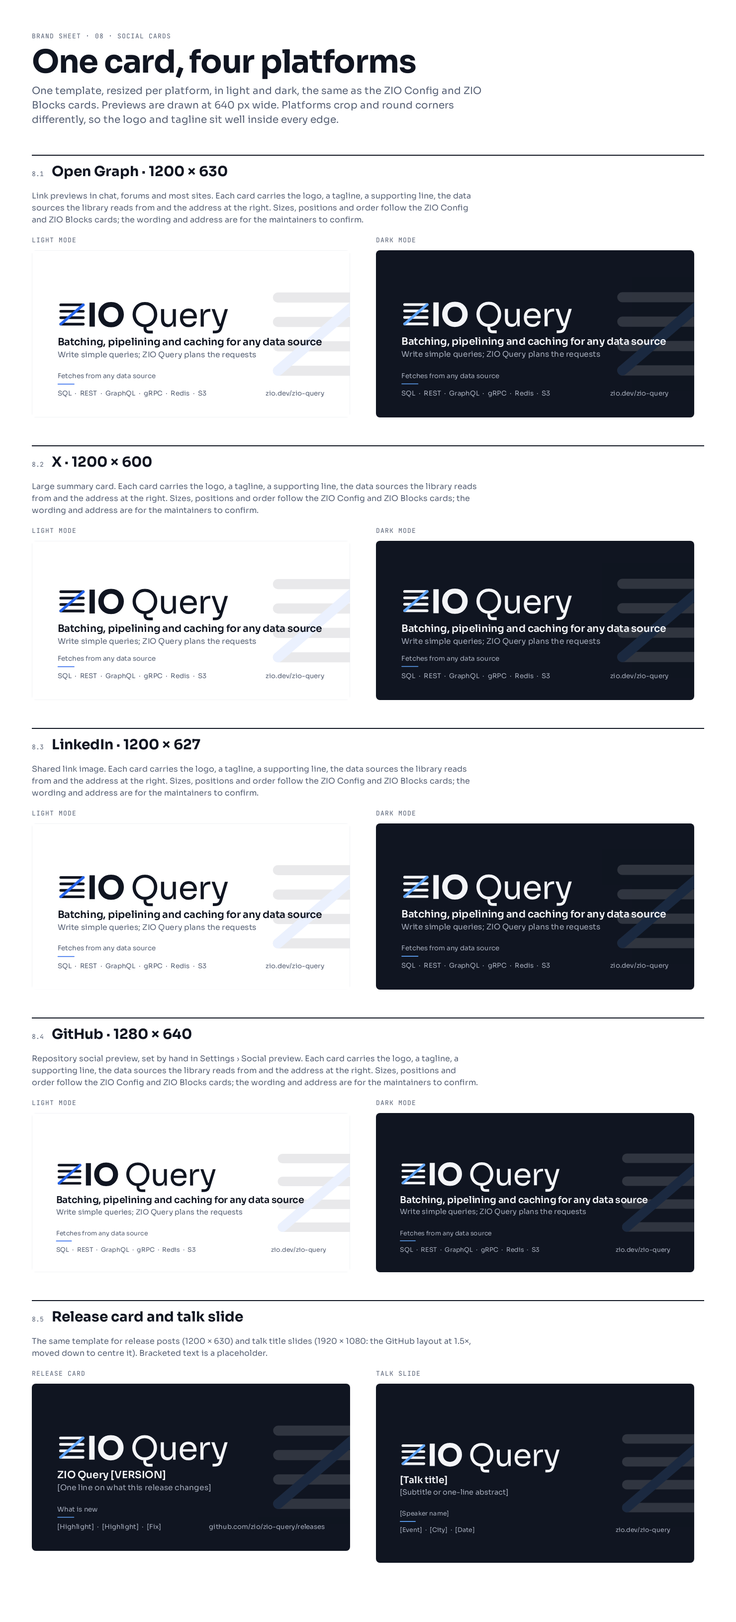
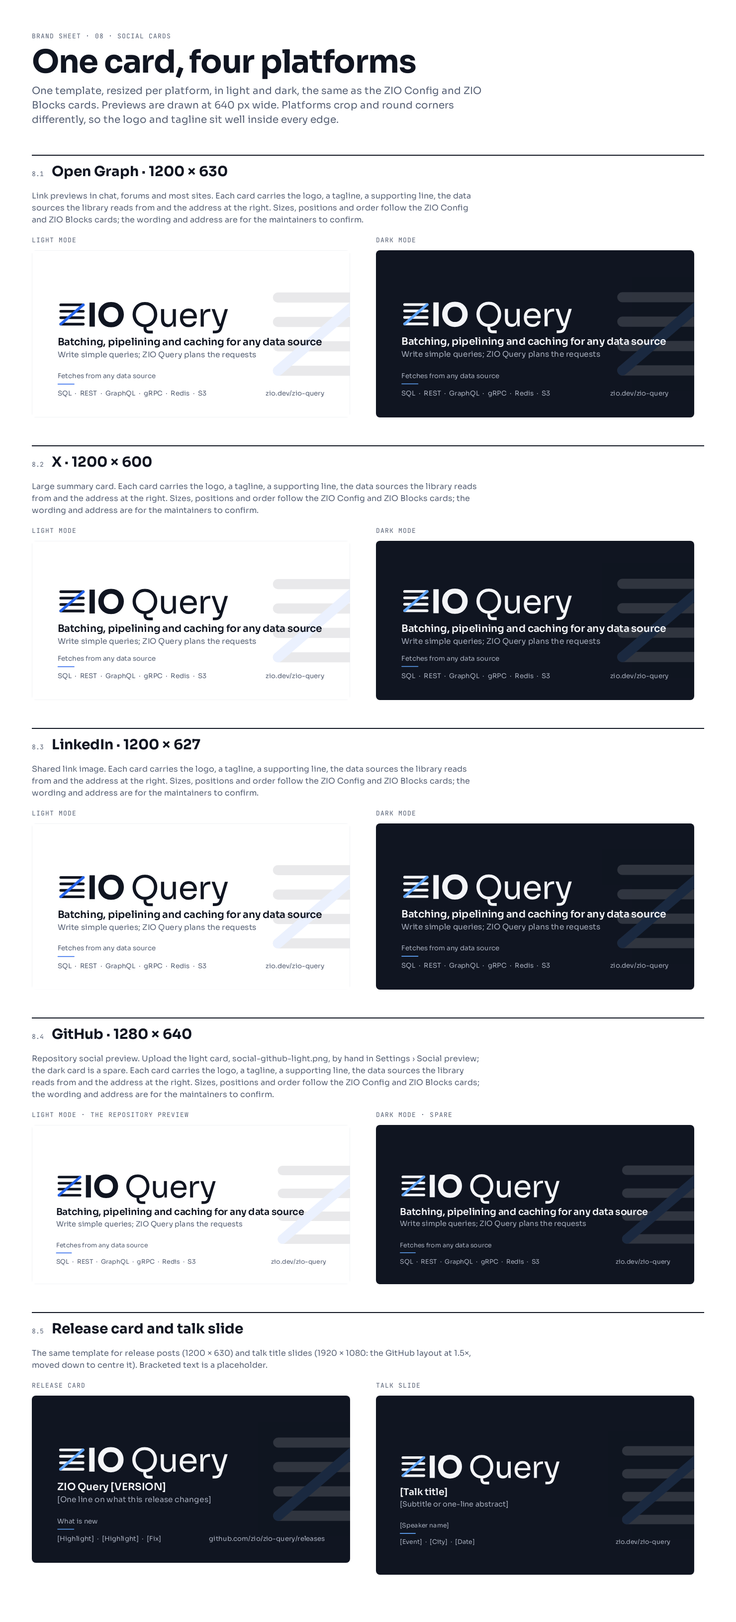
Use the light card as the GitHub social preview
The light card (social-github-light.png) is the one to upload in
Settings > Social preview; the dark card stays as a spare.

diff --git a/brand/sheet/Brand8Social.dc.html b/brand/sheet/Brand8Social.dc.html
@@ -30,7 +30,7 @@ body{margin:0}
 <div style="display: flex; flex-direction: column; gap: 20px"><div style="display: flex; align-items: baseline; gap: 16px; border-top: 2px solid #101521; padding-top: 14px"><div style="font-family: 'JetBrains Mono', monospace; font-size: 13px; color: #566074">8.1</div><div style="font-size: 28px; font-weight: 700">Open Graph · 1200 × 630</div></div><div style="font-size: 16px; color: #566074; line-height: 1.5; max-width: 900px">Link previews in chat, forums and most sites. Each card carries the logo, a tagline, a supporting line, the data sources the library reads from and the address at the right. Sizes, positions and order follow the ZIO Config and ZIO Blocks cards; the wording and address are for the maintainers to confirm.</div><div style="display: grid; grid-template-columns: repeat(2, minmax(0, 1fr)); gap: 32px"><div style="display: flex; flex-direction: column; gap: 12px"><div style="font-family: 'JetBrains Mono', monospace; font-size: 13px; color: #566074; letter-spacing: 0.08em; text-transform: uppercase">Light mode</div><div style="width: 640px; height: 336px; overflow: hidden; position: relative; flex: none; border-radius: 8px"><div style="width: 1200px; height: 630px; transform: scale(0.5333); transform-origin: 0 0"><div style="width: 1200px; height: 630px; border: 1px solid #E3E6EC; box-sizing: border-box; position: relative; overflow: hidden; color: #101521; background: #FFFFFF"><div style="position: absolute; right: -120.0px; top: 85.0px; opacity: 0.09"><svg width="460.0" height="460.0" viewBox="0 0 120 120" aria-hidden="true" style="--ln:#101521; --st:#2563EB"><use href="#qm" width="120" height="120"></use></svg></div><div style="position: absolute; left: 96.0px; top: 189.07px"><svg width="647.3" height="128.59" viewBox="-3.18 20.85 524.78 104.25" role="img" aria-label="ZIO Query" style="display: block; --ink:#101521; --ln:#101521; --st:#2563EB"><use href="#ql" x="-3.18" y="20.85" width="524.78" height="104.25"></use></svg></div><div style="position: absolute; left: 96.0px; top: 325.0px; font-size: 38.0px; line-height: 1; font-weight: 600; color: #101521; white-space: nowrap; letter-spacing: -0.01em">Batching, pipelining and caching for any data source</div><div style="position: absolute; left: 96.0px; top: 378.0px; font-size: 29.0px; line-height: 1; font-weight: 400; color: #566074; white-space: nowrap">Write simple queries; ZIO Query plans the requests</div><div style="position: absolute; left: 96.0px; top: 460.0px; font-size: 25.0px; line-height: 1; font-weight: 400; color: #566074; white-space: nowrap">Fetches from any data source</div><div style="position: absolute; left: 96.0px; top: 502.0px; width: 64.0px; height: 3.0px; border-radius: 2px; background: #2563EB"></div><div style="position: absolute; left: 96.0px; top: 526.0px; font-size: 25.0px; line-height: 1; font-weight: 400; color: #566074; white-space: nowrap">SQL &#160;·&#160; REST &#160;·&#160; GraphQL &#160;·&#160; gRPC &#160;·&#160; Redis &#160;·&#160; S3</div><div style="position: absolute; right: 96.0px; top: 526.0px; font-size: 25.0px; line-height: 1; font-weight: 400; color: #566074; white-space: nowrap">zio.dev/zio-query</div></div></div></div></div><div style="display: flex; flex-direction: column; gap: 12px"><div style="font-family: 'JetBrains Mono', monospace; font-size: 13px; color: #566074; letter-spacing: 0.08em; text-transform: uppercase">Dark mode</div><div style="width: 640px; height: 336px; overflow: hidden; position: relative; flex: none; border-radius: 8px"><div style="width: 1200px; height: 630px; transform: scale(0.5333); transform-origin: 0 0"><div style="width: 1200px; height: 630px; box-sizing: border-box; position: relative; overflow: hidden; color: #F4F5F8; background: #101521"><div style="position: absolute; right: -120.0px; top: 85.0px; opacity: 0.14"><svg width="460.0" height="460.0" viewBox="0 0 120 120" aria-hidden="true" style="--ln:#F4F5F8; --st:#60A5FA"><use href="#qm" width="120" height="120"></use></svg></div><div style="position: absolute; left: 96.0px; top: 189.07px"><svg width="647.3" height="128.59" viewBox="-3.18 20.85 524.78 104.25" role="img" aria-label="ZIO Query" style="display: block; --ink:#F4F5F8; --ln:#F4F5F8; --st:#60A5FA"><use href="#ql" x="-3.18" y="20.85" width="524.78" height="104.25"></use></svg></div><div style="position: absolute; left: 96.0px; top: 325.0px; font-size: 38.0px; line-height: 1; font-weight: 600; color: #F4F5F8; white-space: nowrap; letter-spacing: -0.01em">Batching, pipelining and caching for any data source</div><div style="position: absolute; left: 96.0px; top: 378.0px; font-size: 29.0px; line-height: 1; font-weight: 400; color: #A7AEBD; white-space: nowrap">Write simple queries; ZIO Query plans the requests</div><div style="position: absolute; left: 96.0px; top: 460.0px; font-size: 25.0px; line-height: 1; font-weight: 400; color: #A7AEBD; white-space: nowrap">Fetches from any data source</div><div style="position: absolute; left: 96.0px; top: 502.0px; width: 64.0px; height: 3.0px; border-radius: 2px; background: #60A5FA"></div><div style="position: absolute; left: 96.0px; top: 526.0px; font-size: 25.0px; line-height: 1; font-weight: 400; color: #A7AEBD; white-space: nowrap">SQL &#160;·&#160; REST &#160;·&#160; GraphQL &#160;·&#160; gRPC &#160;·&#160; Redis &#160;·&#160; S3</div><div style="position: absolute; right: 96.0px; top: 526.0px; font-size: 25.0px; line-height: 1; font-weight: 400; color: #A7AEBD; white-space: nowrap">zio.dev/zio-query</div></div></div></div></div></div></div>
 <div style="display: flex; flex-direction: column; gap: 20px"><div style="display: flex; align-items: baseline; gap: 16px; border-top: 2px solid #101521; padding-top: 14px"><div style="font-family: 'JetBrains Mono', monospace; font-size: 13px; color: #566074">8.2</div><div style="font-size: 28px; font-weight: 700">X · 1200 × 600</div></div><div style="font-size: 16px; color: #566074; line-height: 1.5; max-width: 900px">Large summary card. Each card carries the logo, a tagline, a supporting line, the data sources the library reads from and the address at the right. Sizes, positions and order follow the ZIO Config and ZIO Blocks cards; the wording and address are for the maintainers to confirm.</div><div style="display: grid; grid-template-columns: repeat(2, minmax(0, 1fr)); gap: 32px"><div style="display: flex; flex-direction: column; gap: 12px"><div style="font-family: 'JetBrains Mono', monospace; font-size: 13px; color: #566074; letter-spacing: 0.08em; text-transform: uppercase">Light mode</div><div style="width: 640px; height: 320px; overflow: hidden; position: relative; flex: none; border-radius: 8px"><div style="width: 1200px; height: 600px; transform: scale(0.5333); transform-origin: 0 0"><div style="width: 1200px; height: 600px; border: 1px solid #E3E6EC; box-sizing: border-box; position: relative; overflow: hidden; color: #101521; background: #FFFFFF"><div style="position: absolute; right: -120.0px; top: 70.0px; opacity: 0.09"><svg width="460.0" height="460.0" viewBox="0 0 120 120" aria-hidden="true" style="--ln:#101521; --st:#2563EB"><use href="#qm" width="120" height="120"></use></svg></div><div style="position: absolute; left: 96.0px; top: 175.07px"><svg width="647.3" height="128.59" viewBox="-3.18 20.85 524.78 104.25" role="img" aria-label="ZIO Query" style="display: block; --ink:#101521; --ln:#101521; --st:#2563EB"><use href="#ql" x="-3.18" y="20.85" width="524.78" height="104.25"></use></svg></div><div style="position: absolute; left: 96.0px; top: 311.0px; font-size: 38.0px; line-height: 1; font-weight: 600; color: #101521; white-space: nowrap; letter-spacing: -0.01em">Batching, pipelining and caching for any data source</div><div style="position: absolute; left: 96.0px; top: 364.0px; font-size: 29.0px; line-height: 1; font-weight: 400; color: #566074; white-space: nowrap">Write simple queries; ZIO Query plans the requests</div><div style="position: absolute; left: 96.0px; top: 430.0px; font-size: 25.0px; line-height: 1; font-weight: 400; color: #566074; white-space: nowrap">Fetches from any data source</div><div style="position: absolute; left: 96.0px; top: 472.0px; width: 64.0px; height: 3.0px; border-radius: 2px; background: #2563EB"></div><div style="position: absolute; left: 96.0px; top: 496.0px; font-size: 25.0px; line-height: 1; font-weight: 400; color: #566074; white-space: nowrap">SQL &#160;·&#160; REST &#160;·&#160; GraphQL &#160;·&#160; gRPC &#160;·&#160; Redis &#160;·&#160; S3</div><div style="position: absolute; right: 96.0px; top: 496.0px; font-size: 25.0px; line-height: 1; font-weight: 400; color: #566074; white-space: nowrap">zio.dev/zio-query</div></div></div></div></div><div style="display: flex; flex-direction: column; gap: 12px"><div style="font-family: 'JetBrains Mono', monospace; font-size: 13px; color: #566074; letter-spacing: 0.08em; text-transform: uppercase">Dark mode</div><div style="width: 640px; height: 320px; overflow: hidden; position: relative; flex: none; border-radius: 8px"><div style="width: 1200px; height: 600px; transform: scale(0.5333); transform-origin: 0 0"><div style="width: 1200px; height: 600px; box-sizing: border-box; position: relative; overflow: hidden; color: #F4F5F8; background: #101521"><div style="position: absolute; right: -120.0px; top: 70.0px; opacity: 0.14"><svg width="460.0" height="460.0" viewBox="0 0 120 120" aria-hidden="true" style="--ln:#F4F5F8; --st:#60A5FA"><use href="#qm" width="120" height="120"></use></svg></div><div style="position: absolute; left: 96.0px; top: 175.07px"><svg width="647.3" height="128.59" viewBox="-3.18 20.85 524.78 104.25" role="img" aria-label="ZIO Query" style="display: block; --ink:#F4F5F8; --ln:#F4F5F8; --st:#60A5FA"><use href="#ql" x="-3.18" y="20.85" width="524.78" height="104.25"></use></svg></div><div style="position: absolute; left: 96.0px; top: 311.0px; font-size: 38.0px; line-height: 1; font-weight: 600; color: #F4F5F8; white-space: nowrap; letter-spacing: -0.01em">Batching, pipelining and caching for any data source</div><div style="position: absolute; left: 96.0px; top: 364.0px; font-size: 29.0px; line-height: 1; font-weight: 400; color: #A7AEBD; white-space: nowrap">Write simple queries; ZIO Query plans the requests</div><div style="position: absolute; left: 96.0px; top: 430.0px; font-size: 25.0px; line-height: 1; font-weight: 400; color: #A7AEBD; white-space: nowrap">Fetches from any data source</div><div style="position: absolute; left: 96.0px; top: 472.0px; width: 64.0px; height: 3.0px; border-radius: 2px; background: #60A5FA"></div><div style="position: absolute; left: 96.0px; top: 496.0px; font-size: 25.0px; line-height: 1; font-weight: 400; color: #A7AEBD; white-space: nowrap">SQL &#160;·&#160; REST &#160;·&#160; GraphQL &#160;·&#160; gRPC &#160;·&#160; Redis &#160;·&#160; S3</div><div style="position: absolute; right: 96.0px; top: 496.0px; font-size: 25.0px; line-height: 1; font-weight: 400; color: #A7AEBD; white-space: nowrap">zio.dev/zio-query</div></div></div></div></div></div></div>
 <div style="display: flex; flex-direction: column; gap: 20px"><div style="display: flex; align-items: baseline; gap: 16px; border-top: 2px solid #101521; padding-top: 14px"><div style="font-family: 'JetBrains Mono', monospace; font-size: 13px; color: #566074">8.3</div><div style="font-size: 28px; font-weight: 700">LinkedIn · 1200 × 627</div></div><div style="font-size: 16px; color: #566074; line-height: 1.5; max-width: 900px">Shared link image. Each card carries the logo, a tagline, a supporting line, the data sources the library reads from and the address at the right. Sizes, positions and order follow the ZIO Config and ZIO Blocks cards; the wording and address are for the maintainers to confirm.</div><div style="display: grid; grid-template-columns: repeat(2, minmax(0, 1fr)); gap: 32px"><div style="display: flex; flex-direction: column; gap: 12px"><div style="font-family: 'JetBrains Mono', monospace; font-size: 13px; color: #566074; letter-spacing: 0.08em; text-transform: uppercase">Light mode</div><div style="width: 640px; height: 334px; overflow: hidden; position: relative; flex: none; border-radius: 8px"><div style="width: 1200px; height: 627px; transform: scale(0.5333); transform-origin: 0 0"><div style="width: 1200px; height: 627px; border: 1px solid #E3E6EC; box-sizing: border-box; position: relative; overflow: hidden; color: #101521; background: #FFFFFF"><div style="position: absolute; right: -120.0px; top: 83.0px; opacity: 0.09"><svg width="460.0" height="460.0" viewBox="0 0 120 120" aria-hidden="true" style="--ln:#101521; --st:#2563EB"><use href="#qm" width="120" height="120"></use></svg></div><div style="position: absolute; left: 96.0px; top: 187.07px"><svg width="647.3" height="128.59" viewBox="-3.18 20.85 524.78 104.25" role="img" aria-label="ZIO Query" style="display: block; --ink:#101521; --ln:#101521; --st:#2563EB"><use href="#ql" x="-3.18" y="20.85" width="524.78" height="104.25"></use></svg></div><div style="position: absolute; left: 96.0px; top: 323.0px; font-size: 38.0px; line-height: 1; font-weight: 600; color: #101521; white-space: nowrap; letter-spacing: -0.01em">Batching, pipelining and caching for any data source</div><div style="position: absolute; left: 96.0px; top: 376.0px; font-size: 29.0px; line-height: 1; font-weight: 400; color: #566074; white-space: nowrap">Write simple queries; ZIO Query plans the requests</div><div style="position: absolute; left: 96.0px; top: 457.0px; font-size: 25.0px; line-height: 1; font-weight: 400; color: #566074; white-space: nowrap">Fetches from any data source</div><div style="position: absolute; left: 96.0px; top: 499.0px; width: 64.0px; height: 3.0px; border-radius: 2px; background: #2563EB"></div><div style="position: absolute; left: 96.0px; top: 523.0px; font-size: 25.0px; line-height: 1; font-weight: 400; color: #566074; white-space: nowrap">SQL &#160;·&#160; REST &#160;·&#160; GraphQL &#160;·&#160; gRPC &#160;·&#160; Redis &#160;·&#160; S3</div><div style="position: absolute; right: 96.0px; top: 523.0px; font-size: 25.0px; line-height: 1; font-weight: 400; color: #566074; white-space: nowrap">zio.dev/zio-query</div></div></div></div></div><div style="display: flex; flex-direction: column; gap: 12px"><div style="font-family: 'JetBrains Mono', monospace; font-size: 13px; color: #566074; letter-spacing: 0.08em; text-transform: uppercase">Dark mode</div><div style="width: 640px; height: 334px; overflow: hidden; position: relative; flex: none; border-radius: 8px"><div style="width: 1200px; height: 627px; transform: scale(0.5333); transform-origin: 0 0"><div style="width: 1200px; height: 627px; box-sizing: border-box; position: relative; overflow: hidden; color: #F4F5F8; background: #101521"><div style="position: absolute; right: -120.0px; top: 83.0px; opacity: 0.14"><svg width="460.0" height="460.0" viewBox="0 0 120 120" aria-hidden="true" style="--ln:#F4F5F8; --st:#60A5FA"><use href="#qm" width="120" height="120"></use></svg></div><div style="position: absolute; left: 96.0px; top: 187.07px"><svg width="647.3" height="128.59" viewBox="-3.18 20.85 524.78 104.25" role="img" aria-label="ZIO Query" style="display: block; --ink:#F4F5F8; --ln:#F4F5F8; --st:#60A5FA"><use href="#ql" x="-3.18" y="20.85" width="524.78" height="104.25"></use></svg></div><div style="position: absolute; left: 96.0px; top: 323.0px; font-size: 38.0px; line-height: 1; font-weight: 600; color: #F4F5F8; white-space: nowrap; letter-spacing: -0.01em">Batching, pipelining and caching for any data source</div><div style="position: absolute; left: 96.0px; top: 376.0px; font-size: 29.0px; line-height: 1; font-weight: 400; color: #A7AEBD; white-space: nowrap">Write simple queries; ZIO Query plans the requests</div><div style="position: absolute; left: 96.0px; top: 457.0px; font-size: 25.0px; line-height: 1; font-weight: 400; color: #A7AEBD; white-space: nowrap">Fetches from any data source</div><div style="position: absolute; left: 96.0px; top: 499.0px; width: 64.0px; height: 3.0px; border-radius: 2px; background: #60A5FA"></div><div style="position: absolute; left: 96.0px; top: 523.0px; font-size: 25.0px; line-height: 1; font-weight: 400; color: #A7AEBD; white-space: nowrap">SQL &#160;·&#160; REST &#160;·&#160; GraphQL &#160;·&#160; gRPC &#160;·&#160; Redis &#160;·&#160; S3</div><div style="position: absolute; right: 96.0px; top: 523.0px; font-size: 25.0px; line-height: 1; font-weight: 400; color: #A7AEBD; white-space: nowrap">zio.dev/zio-query</div></div></div></div></div></div></div>
-<div style="display: flex; flex-direction: column; gap: 20px"><div style="display: flex; align-items: baseline; gap: 16px; border-top: 2px solid #101521; padding-top: 14px"><div style="font-family: 'JetBrains Mono', monospace; font-size: 13px; color: #566074">8.4</div><div style="font-size: 28px; font-weight: 700">GitHub · 1280 × 640</div></div><div style="font-size: 16px; color: #566074; line-height: 1.5; max-width: 900px">Repository social preview, set by hand in Settings › Social preview. Each card carries the logo, a tagline, a supporting line, the data sources the library reads from and the address at the right. Sizes, positions and order follow the ZIO Config and ZIO Blocks cards; the wording and address are for the maintainers to confirm.</div><div style="display: grid; grid-template-columns: repeat(2, minmax(0, 1fr)); gap: 32px"><div style="display: flex; flex-direction: column; gap: 12px"><div style="font-family: 'JetBrains Mono', monospace; font-size: 13px; color: #566074; letter-spacing: 0.08em; text-transform: uppercase">Light mode</div><div style="width: 640px; height: 320px; overflow: hidden; position: relative; flex: none; border-radius: 8px"><div style="width: 1280px; height: 640px; transform: scale(0.5000); transform-origin: 0 0"><div style="width: 1280px; height: 640px; border: 1px solid #E3E6EC; box-sizing: border-box; position: relative; overflow: hidden; color: #101521; background: #FFFFFF"><div style="position: absolute; right: -120.0px; top: 90.0px; opacity: 0.09"><svg width="460.0" height="460.0" viewBox="0 0 120 120" aria-hidden="true" style="--ln:#101521; --st:#2563EB"><use href="#qm" width="120" height="120"></use></svg></div><div style="position: absolute; left: 96.0px; top: 193.07px"><svg width="647.3" height="128.59" viewBox="-3.18 20.85 524.78 104.25" role="img" aria-label="ZIO Query" style="display: block; --ink:#101521; --ln:#101521; --st:#2563EB"><use href="#ql" x="-3.18" y="20.85" width="524.78" height="104.25"></use></svg></div><div style="position: absolute; left: 96.0px; top: 329.0px; font-size: 38.0px; line-height: 1; font-weight: 600; color: #101521; white-space: nowrap; letter-spacing: -0.01em">Batching, pipelining and caching for any data source</div><div style="position: absolute; left: 96.0px; top: 382.0px; font-size: 29.0px; line-height: 1; font-weight: 400; color: #566074; white-space: nowrap">Write simple queries; ZIO Query plans the requests</div><div style="position: absolute; left: 96.0px; top: 470.0px; font-size: 25.0px; line-height: 1; font-weight: 400; color: #566074; white-space: nowrap">Fetches from any data source</div><div style="position: absolute; left: 96.0px; top: 512.0px; width: 64.0px; height: 3.0px; border-radius: 2px; background: #2563EB"></div><div style="position: absolute; left: 96.0px; top: 536.0px; font-size: 25.0px; line-height: 1; font-weight: 400; color: #566074; white-space: nowrap">SQL &#160;·&#160; REST &#160;·&#160; GraphQL &#160;·&#160; gRPC &#160;·&#160; Redis &#160;·&#160; S3</div><div style="position: absolute; right: 96.0px; top: 536.0px; font-size: 25.0px; line-height: 1; font-weight: 400; color: #566074; white-space: nowrap">zio.dev/zio-query</div></div></div></div></div><div style="display: flex; flex-direction: column; gap: 12px"><div style="font-family: 'JetBrains Mono', monospace; font-size: 13px; color: #566074; letter-spacing: 0.08em; text-transform: uppercase">Dark mode</div><div style="width: 640px; height: 320px; overflow: hidden; position: relative; flex: none; border-radius: 8px"><div style="width: 1280px; height: 640px; transform: scale(0.5000); transform-origin: 0 0"><div style="width: 1280px; height: 640px; box-sizing: border-box; position: relative; overflow: hidden; color: #F4F5F8; background: #101521"><div style="position: absolute; right: -120.0px; top: 90.0px; opacity: 0.14"><svg width="460.0" height="460.0" viewBox="0 0 120 120" aria-hidden="true" style="--ln:#F4F5F8; --st:#60A5FA"><use href="#qm" width="120" height="120"></use></svg></div><div style="position: absolute; left: 96.0px; top: 193.07px"><svg width="647.3" height="128.59" viewBox="-3.18 20.85 524.78 104.25" role="img" aria-label="ZIO Query" style="display: block; --ink:#F4F5F8; --ln:#F4F5F8; --st:#60A5FA"><use href="#ql" x="-3.18" y="20.85" width="524.78" height="104.25"></use></svg></div><div style="position: absolute; left: 96.0px; top: 329.0px; font-size: 38.0px; line-height: 1; font-weight: 600; color: #F4F5F8; white-space: nowrap; letter-spacing: -0.01em">Batching, pipelining and caching for any data source</div><div style="position: absolute; left: 96.0px; top: 382.0px; font-size: 29.0px; line-height: 1; font-weight: 400; color: #A7AEBD; white-space: nowrap">Write simple queries; ZIO Query plans the requests</div><div style="position: absolute; left: 96.0px; top: 470.0px; font-size: 25.0px; line-height: 1; font-weight: 400; color: #A7AEBD; white-space: nowrap">Fetches from any data source</div><div style="position: absolute; left: 96.0px; top: 512.0px; width: 64.0px; height: 3.0px; border-radius: 2px; background: #60A5FA"></div><div style="position: absolute; left: 96.0px; top: 536.0px; font-size: 25.0px; line-height: 1; font-weight: 400; color: #A7AEBD; white-space: nowrap">SQL &#160;·&#160; REST &#160;·&#160; GraphQL &#160;·&#160; gRPC &#160;·&#160; Redis &#160;·&#160; S3</div><div style="position: absolute; right: 96.0px; top: 536.0px; font-size: 25.0px; line-height: 1; font-weight: 400; color: #A7AEBD; white-space: nowrap">zio.dev/zio-query</div></div></div></div></div></div></div>
+<div style="display: flex; flex-direction: column; gap: 20px"><div style="display: flex; align-items: baseline; gap: 16px; border-top: 2px solid #101521; padding-top: 14px"><div style="font-family: 'JetBrains Mono', monospace; font-size: 13px; color: #566074">8.4</div><div style="font-size: 28px; font-weight: 700">GitHub · 1280 × 640</div></div><div style="font-size: 16px; color: #566074; line-height: 1.5; max-width: 900px">Repository social preview. Upload the light card, social-github-light.png, by hand in Settings › Social preview; the dark card is a spare. Each card carries the logo, a tagline, a supporting line, the data sources the library reads from and the address at the right. Sizes, positions and order follow the ZIO Config and ZIO Blocks cards; the wording and address are for the maintainers to confirm.</div><div style="display: grid; grid-template-columns: repeat(2, minmax(0, 1fr)); gap: 32px"><div style="display: flex; flex-direction: column; gap: 12px"><div style="font-family: 'JetBrains Mono', monospace; font-size: 13px; color: #566074; letter-spacing: 0.08em; text-transform: uppercase">Light mode · the repository preview</div><div style="width: 640px; height: 320px; overflow: hidden; position: relative; flex: none; border-radius: 8px"><div style="width: 1280px; height: 640px; transform: scale(0.5000); transform-origin: 0 0"><div style="width: 1280px; height: 640px; border: 1px solid #E3E6EC; box-sizing: border-box; position: relative; overflow: hidden; color: #101521; background: #FFFFFF"><div style="position: absolute; right: -120.0px; top: 90.0px; opacity: 0.09"><svg width="460.0" height="460.0" viewBox="0 0 120 120" aria-hidden="true" style="--ln:#101521; --st:#2563EB"><use href="#qm" width="120" height="120"></use></svg></div><div style="position: absolute; left: 96.0px; top: 193.07px"><svg width="647.3" height="128.59" viewBox="-3.18 20.85 524.78 104.25" role="img" aria-label="ZIO Query" style="display: block; --ink:#101521; --ln:#101521; --st:#2563EB"><use href="#ql" x="-3.18" y="20.85" width="524.78" height="104.25"></use></svg></div><div style="position: absolute; left: 96.0px; top: 329.0px; font-size: 38.0px; line-height: 1; font-weight: 600; color: #101521; white-space: nowrap; letter-spacing: -0.01em">Batching, pipelining and caching for any data source</div><div style="position: absolute; left: 96.0px; top: 382.0px; font-size: 29.0px; line-height: 1; font-weight: 400; color: #566074; white-space: nowrap">Write simple queries; ZIO Query plans the requests</div><div style="position: absolute; left: 96.0px; top: 470.0px; font-size: 25.0px; line-height: 1; font-weight: 400; color: #566074; white-space: nowrap">Fetches from any data source</div><div style="position: absolute; left: 96.0px; top: 512.0px; width: 64.0px; height: 3.0px; border-radius: 2px; background: #2563EB"></div><div style="position: absolute; left: 96.0px; top: 536.0px; font-size: 25.0px; line-height: 1; font-weight: 400; color: #566074; white-space: nowrap">SQL &#160;·&#160; REST &#160;·&#160; GraphQL &#160;·&#160; gRPC &#160;·&#160; Redis &#160;·&#160; S3</div><div style="position: absolute; right: 96.0px; top: 536.0px; font-size: 25.0px; line-height: 1; font-weight: 400; color: #566074; white-space: nowrap">zio.dev/zio-query</div></div></div></div></div><div style="display: flex; flex-direction: column; gap: 12px"><div style="font-family: 'JetBrains Mono', monospace; font-size: 13px; color: #566074; letter-spacing: 0.08em; text-transform: uppercase">Dark mode · spare</div><div style="width: 640px; height: 320px; overflow: hidden; position: relative; flex: none; border-radius: 8px"><div style="width: 1280px; height: 640px; transform: scale(0.5000); transform-origin: 0 0"><div style="width: 1280px; height: 640px; box-sizing: border-box; position: relative; overflow: hidden; color: #F4F5F8; background: #101521"><div style="position: absolute; right: -120.0px; top: 90.0px; opacity: 0.14"><svg width="460.0" height="460.0" viewBox="0 0 120 120" aria-hidden="true" style="--ln:#F4F5F8; --st:#60A5FA"><use href="#qm" width="120" height="120"></use></svg></div><div style="position: absolute; left: 96.0px; top: 193.07px"><svg width="647.3" height="128.59" viewBox="-3.18 20.85 524.78 104.25" role="img" aria-label="ZIO Query" style="display: block; --ink:#F4F5F8; --ln:#F4F5F8; --st:#60A5FA"><use href="#ql" x="-3.18" y="20.85" width="524.78" height="104.25"></use></svg></div><div style="position: absolute; left: 96.0px; top: 329.0px; font-size: 38.0px; line-height: 1; font-weight: 600; color: #F4F5F8; white-space: nowrap; letter-spacing: -0.01em">Batching, pipelining and caching for any data source</div><div style="position: absolute; left: 96.0px; top: 382.0px; font-size: 29.0px; line-height: 1; font-weight: 400; color: #A7AEBD; white-space: nowrap">Write simple queries; ZIO Query plans the requests</div><div style="position: absolute; left: 96.0px; top: 470.0px; font-size: 25.0px; line-height: 1; font-weight: 400; color: #A7AEBD; white-space: nowrap">Fetches from any data source</div><div style="position: absolute; left: 96.0px; top: 512.0px; width: 64.0px; height: 3.0px; border-radius: 2px; background: #60A5FA"></div><div style="position: absolute; left: 96.0px; top: 536.0px; font-size: 25.0px; line-height: 1; font-weight: 400; color: #A7AEBD; white-space: nowrap">SQL &#160;·&#160; REST &#160;·&#160; GraphQL &#160;·&#160; gRPC &#160;·&#160; Redis &#160;·&#160; S3</div><div style="position: absolute; right: 96.0px; top: 536.0px; font-size: 25.0px; line-height: 1; font-weight: 400; color: #A7AEBD; white-space: nowrap">zio.dev/zio-query</div></div></div></div></div></div></div>
 <div style="display: flex; flex-direction: column; gap: 20px"><div style="display: flex; align-items: baseline; gap: 16px; border-top: 2px solid #101521; padding-top: 14px"><div style="font-family: 'JetBrains Mono', monospace; font-size: 13px; color: #566074">8.5</div><div style="font-size: 28px; font-weight: 700">Release card and talk slide</div></div><div style="font-size: 16px; color: #566074; line-height: 1.5; max-width: 900px">The same template for release posts (1200 × 630) and talk title slides (1920 × 1080: the GitHub layout at 1.5×, moved down to centre it). Bracketed text is a placeholder.</div><div style="display: grid; grid-template-columns: repeat(2, minmax(0, 1fr)); gap: 32px"><div style="display: flex; flex-direction: column; gap: 12px"><div style="font-family: 'JetBrains Mono', monospace; font-size: 13px; color: #566074; letter-spacing: 0.08em; text-transform: uppercase">Release card</div><div style="width: 640px; height: 336px; overflow: hidden; position: relative; flex: none; border-radius: 8px"><div style="width: 1200px; height: 630px; transform: scale(0.5333); transform-origin: 0 0"><div style="width: 1200px; height: 630px; box-sizing: border-box; position: relative; overflow: hidden; color: #F4F5F8; background: #101521"><div style="position: absolute; right: -120.0px; top: 85.0px; opacity: 0.14"><svg width="460.0" height="460.0" viewBox="0 0 120 120" aria-hidden="true" style="--ln:#F4F5F8; --st:#60A5FA"><use href="#qm" width="120" height="120"></use></svg></div><div style="position: absolute; left: 96.0px; top: 189.07px"><svg width="647.3" height="128.59" viewBox="-3.18 20.85 524.78 104.25" role="img" aria-label="ZIO Query" style="display: block; --ink:#F4F5F8; --ln:#F4F5F8; --st:#60A5FA"><use href="#ql" x="-3.18" y="20.85" width="524.78" height="104.25"></use></svg></div><div style="position: absolute; left: 96.0px; top: 325.0px; font-size: 38.0px; line-height: 1; font-weight: 600; color: #F4F5F8; white-space: nowrap; letter-spacing: -0.01em">ZIO Query [VERSION]</div><div style="position: absolute; left: 96.0px; top: 378.0px; font-size: 29.0px; line-height: 1; font-weight: 400; color: #A7AEBD; white-space: nowrap">[One line on what this release changes]</div><div style="position: absolute; left: 96.0px; top: 460.0px; font-size: 25.0px; line-height: 1; font-weight: 400; color: #A7AEBD; white-space: nowrap">What is new</div><div style="position: absolute; left: 96.0px; top: 502.0px; width: 64.0px; height: 3.0px; border-radius: 2px; background: #60A5FA"></div><div style="position: absolute; left: 96.0px; top: 526.0px; font-size: 25.0px; line-height: 1; font-weight: 400; color: #A7AEBD; white-space: nowrap">[Highlight] &#160;·&#160; [Highlight] &#160;·&#160; [Fix]</div><div style="position: absolute; right: 96.0px; top: 526.0px; font-size: 25.0px; line-height: 1; font-weight: 400; color: #A7AEBD; white-space: nowrap">github.com/zio/zio-query/releases</div></div></div></div></div><div style="display: flex; flex-direction: column; gap: 12px"><div style="font-family: 'JetBrains Mono', monospace; font-size: 13px; color: #566074; letter-spacing: 0.08em; text-transform: uppercase">Talk slide</div><div style="width: 640px; height: 360px; overflow: hidden; position: relative; flex: none; border-radius: 8px"><div style="width: 1920px; height: 1080px; transform: scale(0.3333); transform-origin: 0 0"><div style="width: 1920px; height: 1080px; box-sizing: border-box; position: relative; overflow: hidden; color: #F4F5F8; background: #101521"><div style="position: absolute; right: -180.0px; top: 195.0px; opacity: 0.14"><svg width="690.0" height="690.0" viewBox="0 0 120 120" aria-hidden="true" style="--ln:#F4F5F8; --st:#60A5FA"><use href="#qm" width="120" height="120"></use></svg></div><div style="position: absolute; left: 144.0px; top: 349.6px"><svg width="970.95" height="192.88" viewBox="-3.18 20.85 524.78 104.25" role="img" aria-label="ZIO Query" style="display: block; --ink:#F4F5F8; --ln:#F4F5F8; --st:#60A5FA"><use href="#ql" x="-3.18" y="20.85" width="524.78" height="104.25"></use></svg></div><div style="position: absolute; left: 144.0px; top: 553.5px; font-size: 57.0px; line-height: 1; font-weight: 600; color: #F4F5F8; white-space: nowrap; letter-spacing: -0.01em">[Talk title]</div><div style="position: absolute; left: 144.0px; top: 633.0px; font-size: 43.5px; line-height: 1; font-weight: 400; color: #A7AEBD; white-space: nowrap">[Subtitle or one-line abstract]</div><div style="position: absolute; left: 144.0px; top: 765.0px; font-size: 37.5px; line-height: 1; font-weight: 400; color: #A7AEBD; white-space: nowrap">[Speaker name]</div><div style="position: absolute; left: 144.0px; top: 828.0px; width: 96.0px; height: 4.5px; border-radius: 2px; background: #60A5FA"></div><div style="position: absolute; left: 144.0px; top: 864.0px; font-size: 37.5px; line-height: 1; font-weight: 400; color: #A7AEBD; white-space: nowrap">[Event] &#160;·&#160; [City] &#160;·&#160; [Date]</div><div style="position: absolute; right: 144.0px; top: 864.0px; font-size: 37.5px; line-height: 1; font-weight: 400; color: #A7AEBD; white-space: nowrap">zio.dev/zio-query</div></div></div></div></div></div></div>
 
 </div>

diff --git a/brand/sheet/Brand10Assets.dc.html b/brand/sheet/Brand10Assets.dc.html
@@ -121,7 +121,7 @@ body{margin:0}
 <div style="font-family: 'JetBrains Mono', monospace; font-size: 12px; color: #566074">PRINT AND MERCH</div>
 </div>
 </div>
-<div style="font-size: 15px; color: #566074; line-height: 1.5">Next step: export these files into brand/ in zio-query, wire the favicons and README banner, and upload the social preview and avatar in GitHub settings by hand.</div>
+<div style="font-size: 15px; color: #566074; line-height: 1.5">Next step: export these files into brand/ in zio-query, wire the favicons and README banner, and upload social-github-light.png as the social preview, and the avatar, in GitHub settings by hand.</div>
 </div>
 
 </div>

diff --git a/brand/README.md b/brand/README.md
@@ -24,7 +24,7 @@ The mark is a tally turned on its side. Four horizontal lines are four requests;
 - `social-og-light.png`, `social-og-dark.png`: 1200 × 630, `og:image`.
 - `social-x-light.png`, `social-x-dark.png`: 1200 × 600, `twitter:image`.
 - `social-linkedin-light.png`, `social-linkedin-dark.png`: 1200 × 627, LinkedIn shares.
-- `social-github-light.png`, `social-github-dark.png`: 1280 × 640, repository Settings › Social preview.
+- `social-github-light.png`: 1280 × 640, the repository social preview. Upload it by hand in Settings › Social preview (GitHub has no API for it). `social-github-dark.png` is a spare.
 - `release-card.png`: 1200 × 630 release posts. Version and highlights are placeholders.
 - `slide-title.png`: 1920 × 1080 talk title slide. Title, speaker and event are placeholders.
 
